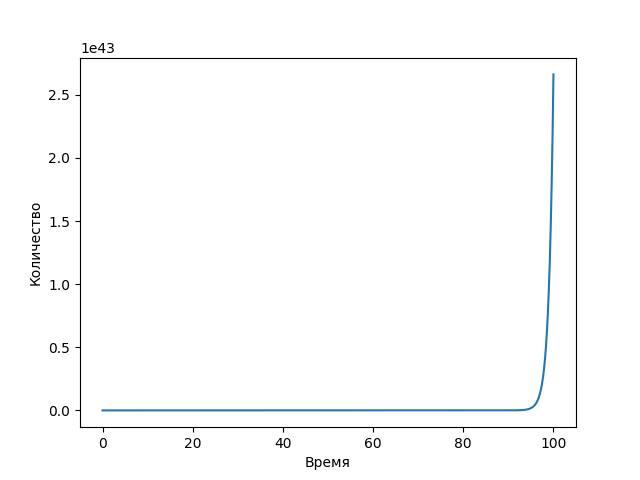
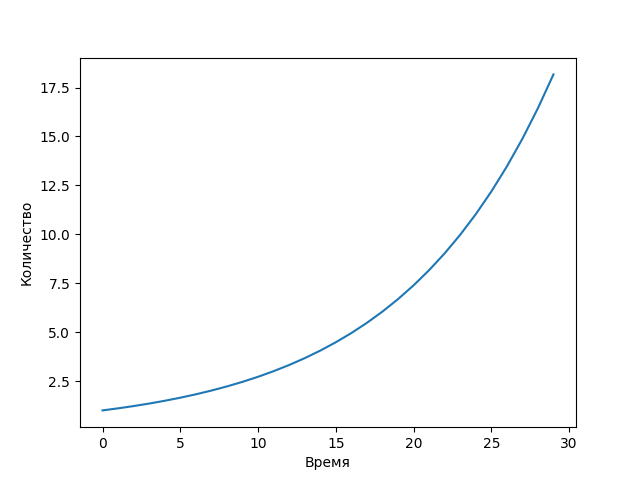
1

diff --git a/task_1_2.py b/task_1_2.py
@@ -2,17 +2,18 @@ import numpy as np
 from scipy.integrate import odeint
 import matplotlib.pyplot as plt
 
-t=np.arange(0,10,1)
+k=0.08
+t=np.arange(0,4,0.1)
 
 def func(n,t):
-    dndt=n*2
+    dndt=-k*n
     return dndt
 
-n0=1
+n0=1000
 n_t=odeint(func,n0,t)
-plt.plot(t,n_t[:,:n0*10])
+plt.plot(t,n_t)
 
 plt.xlabel('Время')
 plt.ylabel('Количество')
 
-plt.savefig('task_1_1.png')
+plt.savefig('task_1_2.png')

diff --git a/task_1_1.py b/task_1_1.py
@@ -2,10 +2,11 @@ import numpy as np
 from scipy.integrate import odeint
 import matplotlib.pyplot as plt
 
-t=np.arange(0,100,0.01)
+k=0.1
+t=np.arange(0,30,1)
 
 def func(n,t):
-    dndt=n
+    dndt=n*k
     return dndt
 
 n0=1
@@ -14,5 +15,4 @@ plt.plot(t,n_t)
 
 plt.xlabel('Время')
 plt.ylabel('Количество')
-
 plt.savefig('task_1_1.png')

diff --git a/task_1_3.py b/task_1_3.py
@@ -1,0 +1,22 @@
+import numpy as np
+from scipy.integrate import odeint
+import matplotlib.pyplot as plt
+
+v0=0
+a=1
+m=1
+gamma=0.1
+t=np.arange(0,10,0.1)
+
+def func(v,t):
+    dvdt=a-(v**2*gamma)/m
+    return dvdt
+
+
+v_t=odeint(func,v0,t)
+plt.plot(t,v_t)
+
+plt.xlabel('Время')
+plt.ylabel('Скорость')
+
+plt.savefig('task_1_3.png')
